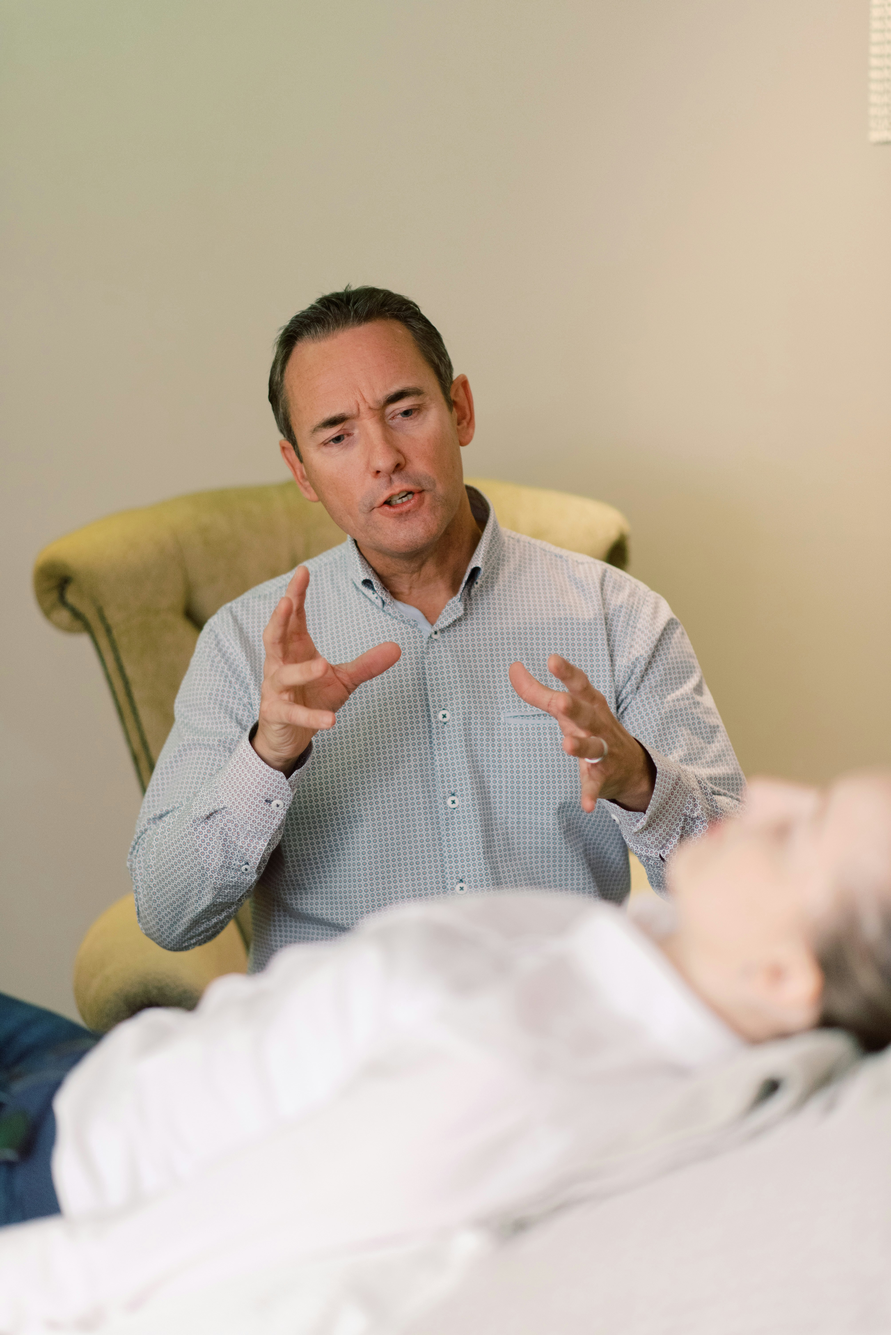
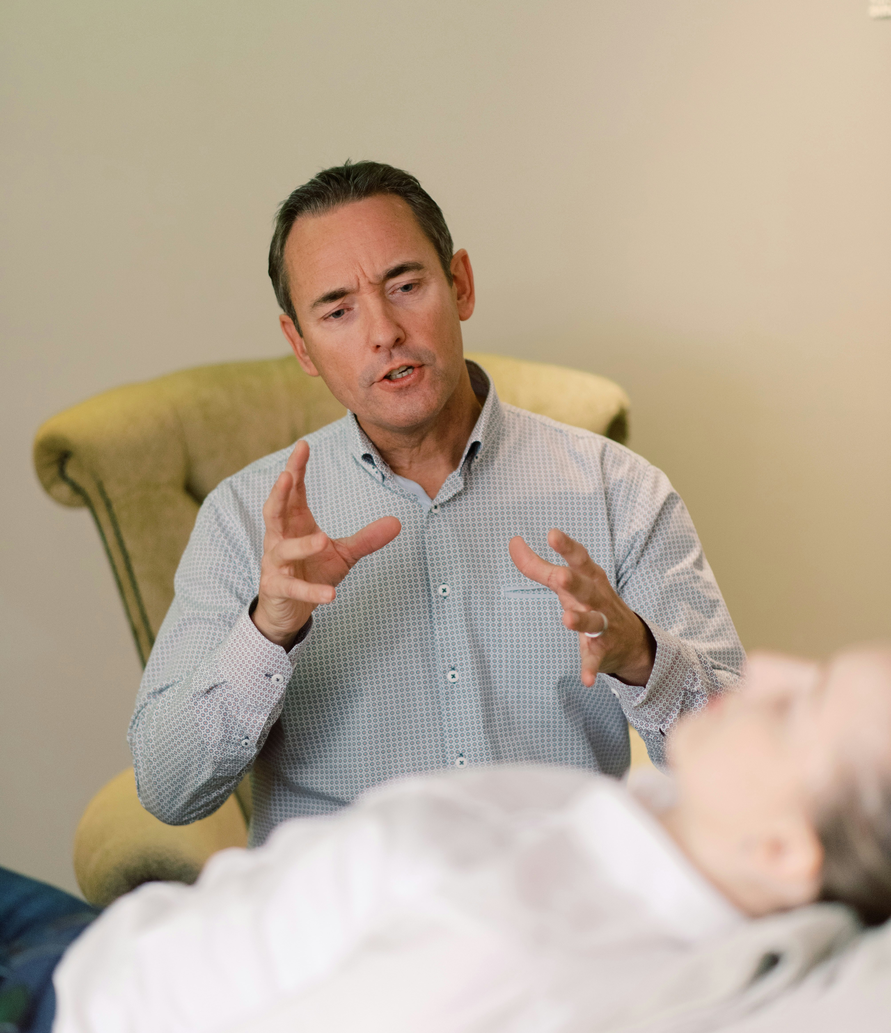
about edite 0.3

diff --git a/app/(public-pages)/page.jsx b/app/(public-pages)/page.jsx
@@ -133,23 +133,21 @@ export default function Home() {
       {/* ********** Doctor information  ******************/}
       <div className="grid grid-cols-2 gap-5">
         <div className="flex flex-col pt-20 pl-17 ">
-          <h2 className="autoShow text-3xl py-18 border-t border-gray-300 text-gray-700">Dr. Amin El Hashimi – Chief Surgeon</h2>
-          <p className="autoShow flex flex-col text-1xl">
+          <h2 className="autoShow text-5xl border-t border-gray-300 py-4"><span className="text-blue-600 font-bold">Dr. Amin El Hashimi –</span><span className="text-green-600 font-bold"> Chief Surgeon</span></h2>
+          <p className="autoShow flex flex-col text-2xl">
             <span className="w-full h-fit pb-5 text-gray-500 border-t border-gray-300 pt-15 indent-8 tracking-wide">
-              Dr. Amin El Hashimi is a multidisciplinary surgeon with extensive and distinguished 
-              experience in the surgical field. He graduated from medical school and further advanced his career through 
-              specialized training programs in multiple surgical disciplines, equipping him to manage a wide range of complex 
-              medical cases with the highest level of skill and precision.
+              <b>Dr. Amin El Hashimi</b> is an experienced, multi-specialty surgeon. Thanks to advanced training across multiple 
+              surgical disciplines, he is highly skilled in managing a wide range of complex medical cases with top-tier 
+              precision.
             </span>
             <span className="text-gray-500 pt-2 indent-8 tracking-wide">
-              Dr. Amin is committed to accurate diagnosis and continuous follow-up, placing patient health and safety at 
-              the core of his practice. He also utilizes the latest surgical techniques and methods to ensure optimal treatment 
-              outcomes, while adhering to the highest professional and ethical standards.
+              <b>Dr. Amin</b> prioritizes patient safety and health through accurate diagnosis and continuous follow-up. By combining 
+              ethical standards with the latest surgical techniques, he consistently ensures optimal treatment outcomes.
             </span>
           </p>
         </div>
         <div className="autoShow flex w-full h-200 p-18">
-          <Image className="w-full rounded-4xl" src="/DoctorRespo.jpg" alt="Doctor" width={400} height={400}></Image>
+          <Image className="w-full rounded-4xl" src="/photo-4.jpg" alt="Doctor" width={400} height={400}></Image>
         </div>
       </div>
       {/* ***************  End ************** */}
@@ -161,18 +159,15 @@ export default function Home() {
           <Image className="w-full rounded-4xl" src="/ClinicFace.png" alt="Clinic" width={400} height={400}></Image>
         </div>
         <div className="flex flex-col pt-20 px-17 ">
-          <h2 className="autoShow text-3xl border-t border-gray-300 py-4"><span className="text-blue-600 font-bold">Med</span><span className="text-green-600 font-bold">Care</span></h2>
-          <p className="autoShow flex flex-col text-1xl pt-4 border-t border-gray-300">
+          <h2 className="autoShow text-5xl border-t border-gray-300 py-4"><span className="text-blue-600 font-bold">Med</span><span className="text-green-600 font-bold">Care</span></h2>
+          <p className="autoShow flex flex-col text-2xl pt-4 border-t border-gray-300">
             <span className="w-full h-fit text-gray-500  indent-8">
               <span className="text-blue-600 font-bold">Med</span><span className="text-green-600 font-bold">Care </span> 
-              is a multi-specialty medical clinic designed in accordance with modern healthcare standards 
-              and equipped with advanced medical technology to ensure accurate diagnosis and effective treatment 
-              in a safe and comfortable environment, supervised by a highly qualified and experienced physician who 
-              follows an evidence-based, patient-centered approach emphasizing ethical practice and precise medical 
-              follow-up, and supported by a dedicated nursing team of four certified professionals (two male and two 
-              female nurses) known for their competence, professionalism, and compassionate care, allowing the clinic 
-              to deliver integrated, high-quality healthcare services while maintaining strict standards of hygiene, 
-              safety, and clinical excellence for individuals and families.
+              is a multi-specialty medical clinic that combines modern equipment with medical expertise to deliver integrated, 
+              safe, and high-quality healthcare. The clinic operates under the supervision of a highly qualified physician 
+              utilizing a precise, evidence-based approach, and is supported by a dedicated nursing team of four certified 
+              professionals. Together, they ensure the best medical services for individuals and families in a comfortable 
+              and strictly hygienic environment.
             </span>
           </p>
         </div>

diff --git a/app/(public-pages)/about/page.jsx b/app/(public-pages)/about/page.jsx
@@ -96,8 +96,8 @@ export default function About() {
                   className='pointer-events-auto relative flex h-auto w-full flex-col overflow-hidden border border-zinc-950/10 bg-white dark:border-zinc-50/10 dark:bg-zinc-900 sm:w-[500px]'
                 >
                   <MorphingDialogImage
-                    src='/photo-1.jpg'
-                    alt='photo 1'
+                    src='/photo-1c.jpg'
+                    alt='photo 1c'
                     className='h-115 w-auto'
                   />
                   <div className='p-6'>
@@ -223,8 +223,8 @@ export default function About() {
                   className='pointer-events-auto relative flex h-fit w-full flex-col overflow-hidden border border-zinc-950/10 bg-white dark:border-zinc-50/10 dark:bg-zinc-900 sm:w-[500px]'
                 >
                   <MorphingDialogImage
-                    src='/photo-3.jpg'
-                    alt='photo 3'
+                    src='/photo-3c.jpg'
+                    alt='photo 3c'
                     className='h-117 w-auto'
                   />
                   <div className='p-6'>
@@ -286,8 +286,8 @@ export default function About() {
                   className='pointer-events-auto relative flex h-auto w-full flex-col overflow-hidden border border-zinc-950/10 bg-white dark:border-zinc-50/10 dark:bg-zinc-900 sm:w-[500px]'
                 >
                   <MorphingDialogImage
-                    src='/photo-4.jpg'
-                    alt='photo 4'
+                    src='/photo-4c.jpg'
+                    alt='photo 4c'
                     className='h-115 w-auto'
                   />
                   <div className='p-6'>
@@ -319,8 +319,8 @@ export default function About() {
           <p className="w-full h-fit text-gray-500  indent-8">Click on the Picture</p>
         </div>
       </div>
-      <div className="">
-        <h1 className="text-6xl text-gray-700 font-bold pb-7">Welcome to <span className="text-blue-600">Med</span><span className="text-green-600">Care</span></h1>
+      <div className="px-15">
+        <h1 className="text-6xl text-gray-700 font-bold pb-7"><span className="text-blue-600">Our</span><span className="text-green-600"> Teame</span></h1>
       </div>
     </>
   );
